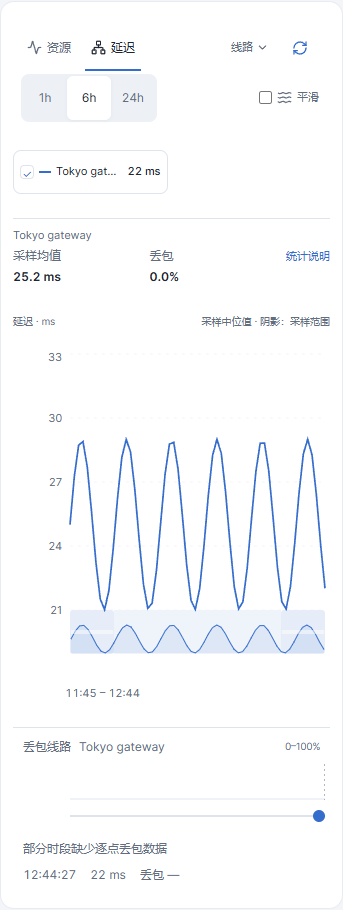
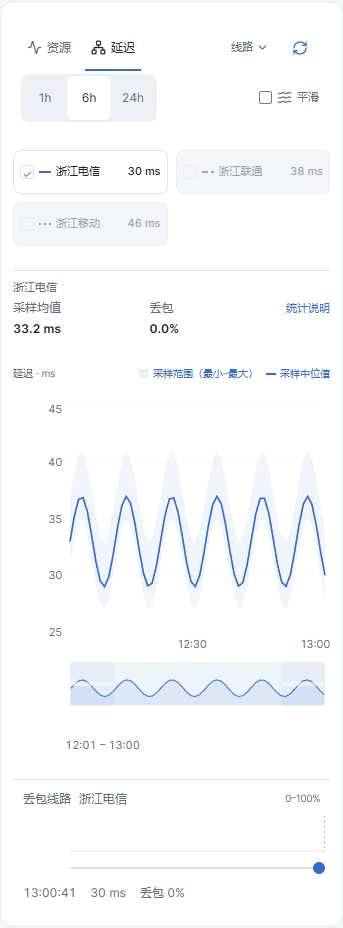
fix: match desktop latency layout to approved proposal

diff --git a/src/components/NodeDetail.tsx b/src/components/NodeDetail.tsx
@@ -297,19 +297,19 @@ export function NodeDetail({ node, probe = "auto", nodes, onSwitch, detailInfoMo
               {(pingSeries.length<=3?pingSeries:[...shownProbes,...pingSeries.filter(s=>!visibleIds.includes(s.id))].slice(0,3)).map(s=>{const latest=s.points.at(-1),shown=visibleIds.includes(s.id);return <button key={s.id} aria-pressed={shown} title={`${s.name} · ${latest?tr("采样：{0}",new Date(latest.ts*1000).toLocaleString(locale())):tr("暂无探测记录")}`} onMouseEnter={()=>setHighlightProbe(s.id)} onMouseLeave={()=>setHighlightProbe(null)} onFocus={()=>setHighlightProbe(s.id)} onBlur={()=>setHighlightProbe(null)} onClick={()=>setSelectedProbes(shown?visibleIds.filter(id=>id!==s.id):[...visibleIds,s.id])}><i className="route-chip-check" aria-hidden="true">{shown?'✓':''}</i><svg width="20" height="8" aria-hidden="true"><line x1="0" y1="4" x2="20" y2="4" stroke={style(s.id).stroke} strokeDasharray={style(s.id).dash} strokeWidth="2"/></svg><span>{s.name}</span><b>{!latest?'—':latest.latency===null?tr("超时"):`${Math.round(latest.latency)} ms`}</b></button>})}
               {pingSeries.length>3&&<button onClick={()=>{if(legend.current){legend.current.open=true;legend.current.querySelector('button')?.focus()}}}>{tr("已选 {0} / {1} 条线路",shownProbes.length,pingSeries.length)}</button>}
             </div>
-            {summaryRoute&&<div className="latency-summary">
+            {summaryRoute&&<div className="latency-summary" title={summaryRoute.name}>
               <span className="latency-summary-route" title={summaryRoute.name}>{summaryRoute.name}</span>
               <span>{tr("采样均值")} <b>{reading(average)}</b></span>
               <span className="latency-p95">P95 <b>{reading(percentile)}</b></span>
               <span>{tr("丢包")} <b>{!zoomed&&summaryRoute.points.length>0&&summaryRoute.loss!==null?`${summaryRoute.loss.toFixed(1)}%`:'—'}</b></span>
               <details className="latency-explanation"><summary>{tr("统计说明")}</summary><div><p>{tr("均值和 P95 基于当前范围内各采样桶的中位值，不代表原始探测包统计。")}</p><p>P95: {reading(percentile)}</p><p>{tr("实线表示采样中位值，阴影表示最小至最大延迟；平滑仅影响曲线。")}</p><p>{tr("丢包率来自完整查询窗口；缩放范围缺少样本数，暂不计算。")}</p></div></details>
             </div>}
-            <div className="latency-chart-caption"><span>{tr("延迟")} · ms</span><span>{smooth?tr("平滑显示"):tr("采样中位值")}{shownProbes.length===1?` · ${tr("阴影：采样范围")}`:''}</span></div>
-            <div className="detail-chart-frame text-muted-foreground" ref={tooltipFrame} onClickCapture={tooltipClick} onPointerMove={tooltipMove} onKeyDownCapture={tooltipKey}>
+            <div className="latency-chart-caption"><span>{tr("延迟")} · ms</span><span className="latency-chart-key" style={{color:summaryRoute?style(summaryRoute.id).stroke:undefined}}>{shownProbes.length===1&&<><i className="latency-band-key"/>{tr("采样范围（最小–最大）")}</>}<i className="latency-line-key"/>{smooth?tr("平滑显示"):tr("采样中位值")}</span></div>
+            <div className="detail-chart-frame text-muted-foreground" onDoubleClick={()=>{setZoom(null);tooltipDismiss()}} ref={tooltipFrame} onClickCapture={tooltipClick} onPointerMove={tooltipMove} onKeyDownCapture={tooltipKey}>
               {shownProbes.length === 0 ? (<HistoryState message={(selectedProbes?.length || selectedProbes === null && choice.probe !== "auto") ? tr("无该线路记录") : tr("没有选中任何探测")}/>) : !shownProbes.some(s=>s.points.length) ? <HistoryState message={tr("这段时间没有延迟数据")}/> : (<ResponsiveContainer>
                   <ComposedChart data={pingRows}>
                     <CartesianGrid strokeDasharray="3 5" stroke="var(--border)" vertical={false}/>
-                    <XAxis {...timeAxis(pingRows, Math.min(zoom?.[0] ?? 0, pingRows.length - 1), Math.min(zoom?.[1] ?? pingRows.length - 1, pingRows.length - 1))}/>
+                    <XAxis height={compact?30:68} {...timeAxis(pingRows, Math.min(zoom?.[0] ?? 0, pingRows.length - 1), Math.min(zoom?.[1] ?? pingRows.length - 1, pingRows.length - 1))}/>
                     {/* Not anchored at zero: these lines live in a narrow band
                     far from it, and zero flattens every wobble. */}
                     <YAxis width={52} domain={["auto", "auto"]} {...AXIS}/>
@@ -336,12 +336,13 @@ export function NodeDetail({ node, probe = "auto", nodes, onSwitch, detailInfoMo
                     {shownProbes.map((s) => (<Line key={s.id} dataKey={`${smooth ? "s" : "t"}${s.id}`} name={s.name} stroke={style(s.id).stroke} strokeDasharray={style(s.id).dash} {...SERIES} strokeOpacity={highlightProbe!==null && visibleIds.includes(highlightProbe) && highlightProbe!==s.id ? 0.2 : 1} onMouseEnter={()=>{if(!compact)setHighlightProbe(s.id)}} onMouseLeave={()=>{if(!compact)setHighlightProbe(null)}} connectNulls={false}/>))}
                     {/* Drag either handle to zoom into a stretch of the trend. */}
                     <Brush dataKey="ts" height={44} travellerWidth={compact?44:12} startIndex={zoom?.[0]??0} endIndex={zoom?.[1]??pingRows.length-1} tickFormatter={clockFor(hours)} fill="var(--card)" className="latency-brush" stroke="var(--border)" onChange={(r) => {tooltipDismiss();setZoom([r.startIndex ?? 0, r.endIndex ?? pingRows.length - 1])}}>
-                      <AreaChart data={pingRows}><XAxis dataKey="ts" type="number" domain={['dataMin','dataMax']} hide/><Area dataKey={`t${summaryRoute?.id}`} stroke="var(--tone)" fill="var(--tone)" fillOpacity={.1} strokeWidth={1} isAnimationActive={false} connectNulls={false}/></AreaChart>
+                      <AreaChart data={pingRows}><XAxis xAxisId="preview" dataKey="ts" type="number" domain={['dataMin','dataMax']} hide/><Area xAxisId="preview" dataKey={`t${summaryRoute?.id}`} stroke="var(--tone)" fill="var(--tone)" fillOpacity={.1} strokeWidth={1} isAnimationActive={false} connectNulls={false}/></AreaChart>
                     </Brush>
                   </ComposedChart>
                 </ResponsiveContainer>)}
+              {!compact&&pingRows.length>0&&<div className="latency-range-heading"><span>{tr("时间范围")} <b>{clockFor(hours)(rangeStart)} — {clockFor(hours)(rangeEnd)}</b></span><span>{zoomed&&<button onClick={()=>{setZoom(null);tooltipDismiss()}}>{tr("恢复完整范围")}</button>}{tr("拖动两端缩放 · 双击恢复全范围")}</span></div>}
             </div>
-            {pingRows.length>0&&<div className="latency-range-caption"><span>{clockFor(hours)(rangeStart)} – {clockFor(hours)(rangeEnd)}</span>{zoomed&&<button onClick={()=>{setZoom(null);tooltipDismiss()}}>{tr("恢复完整范围")}</button>}</div>}
+            {compact&&pingRows.length>0&&<div className="latency-range-caption"><span>{clockFor(hours)(rangeStart)} – {clockFor(hours)(rangeEnd)}</span>{zoomed&&<button onClick={()=>{setZoom(null);tooltipDismiss()}}>{tr("恢复完整范围")}</button>}</div>}
             {shownProbes.length>0&&pingRows.length>0&&<LossTrack selected={summaryRoute?.id} onSelect={setSummaryProbe} key={`${node.id}:${hours}`} series={shownProbes} preferred={defaultProbe} start={pingRows[Math.min(zoom?.[0]??0,pingRows.length-1)].ts} end={pingRows[Math.min(zoom?.[1]??pingRows.length-1,pingRows.length-1)].ts}/>}
           </div>)) : (data.metrics ?? []).length === 0 ? (<HistoryState message={tr("这段时间没有历史数据")}/>) : (<ResourceHistory compact={compact} rows={metricRows} node={node} hours={hours} metric={resourceMetric}/>)}
       </div></section>

diff --git a/src/styles/latency-detail.css b/src/styles/latency-detail.css
@@ -49,3 +49,65 @@
  .latency-summary b {margin:0;white-space:nowrap}
  .latency-view .latency-brush .recharts-brush-traveller rect {fill:var(--tone);fill-opacity:.12}
 }
+/* Desktop follows the proposal: routes and statistics share one heading row. */
+@media(min-width:900px){
+ .latency-view {grid-template-columns:minmax(0,1fr) auto;gap:8px 24px;align-items:center}
+ .latency-view>.route-chips {grid-column:1;grid-row:1;align-self:center;min-width:0;padding:0;gap:8px}
+ .latency-view>.latency-summary {grid-column:2;grid-row:1;display:grid;grid-template-columns:repeat(3,max-content) auto;gap:4px 18px;align-items:center;padding:0;border:0;justify-content:end}
+ .latency-summary-route {grid-column:1/4;max-width:240px;font-size:10px}
+ .latency-summary>span:nth-child(2),.latency-summary>span:nth-child(3),.latency-summary>span:nth-child(4) {grid-row:2;white-space:nowrap;font-size:11px}
+ .latency-summary b {font-size:17px;font-weight:500}
+ .latency-explanation {grid-column:4;grid-row:1/3;font-size:11px}
+ .latency-view>.latency-chart-caption,.latency-view>.detail-chart-frame,.latency-view>.latency-range-caption,.latency-view>.loss-track {grid-column:1/-1}
+ .latency-view>.latency-chart-caption {margin-top:8px;padding:0;min-height:24px}
+ .latency-view>.detail-chart-frame {height:340px;min-height:340px}
+ .latency-view .route-chips button {min-width:0;max-width:100%;padding:6px 9px;font-size:12px;min-height:40px}
+ .latency-view .route-chips button>span {max-width:10em;overflow:hidden;text-overflow:ellipsis;white-space:nowrap}
+ .latency-view .route-chips button>b,.latency-view .route-chips button>svg {flex-shrink:0;white-space:nowrap}
+ .latency-view .route-chips button[aria-pressed=true] {background:var(--tone-soft);border-color:color-mix(in srgb,var(--tone) 30%,var(--border))}
+ .latency-view>.latency-range-caption {min-height:32px;padding-block:0}
+ .latency-view>.latency-range-caption button {min-height:32px}
+ .latency-view .loss-track {padding-top:10px}
+}
+@media(min-width:900px) and (max-width:1199px){
+ .latency-view {column-gap:16px}
+ .latency-view>.latency-summary {column-gap:12px}
+ .latency-summary b {font-size:15px}
+ .latency-view .route-chips button>span {max-width:7em}
+}
+.latency-chart-key {display:flex;align-items:center;gap:7px}
+.latency-band-key {width:18px;height:9px;background:currentColor;opacity:.1;border-radius:2px}
+.latency-line-key {width:18px;border-top:2px solid;margin-left:12px}
+.loss-track-context,.loss-track-desktop-note {display:none}
+@media(min-width:900px){
+ .detail-chart-toolbar[data-history-tab=latency] .detail-tabs {order:0}
+ .detail-chart-toolbar[data-history-tab=latency] .detail-submenu-divider {order:1}
+ .detail-chart-toolbar[data-history-tab=latency] .detail-submenu-divider:nth-of-type(2) {display:none}
+ .detail-chart-toolbar[data-history-tab=latency] .detail-probe-legend {order:2}
+ .detail-chart-toolbar[data-history-tab=latency] .detail-smooth {order:3;margin-left:8px}
+ .detail-chart-toolbar[data-history-tab=latency] .detail-update {order:4}
+ .detail-chart-toolbar[data-history-tab=latency] .detail-ranges {order:5;margin-left:auto}
+ .detail-chart-toolbar[data-history-tab=latency] .detail-refresh {order:6}
+ .detail-chart-toolbar[data-history-tab=latency] .detail-update+.detail-ranges {margin-left:0}
+ .latency-view>.latency-summary {display:flex;flex-wrap:nowrap;gap:24px}
+ .latency-summary-route {display:none}
+ .latency-explanation summary {font-size:0;min-width:24px;justify-content:center}
+ .latency-explanation summary::after {content:'ⓘ';font-size:15px}
+ .latency-view .route-chips button[aria-pressed=false] {opacity:1;background:var(--card);color:var(--muted-foreground)}
+ .latency-view>.detail-chart-frame {position:relative;height:378px;min-height:378px}
+ .latency-range-heading {position:absolute;bottom:51px;left:0;right:0;display:flex;justify-content:space-between;align-items:center;font-size:11px;color:var(--muted-foreground);min-height:28px}
+ .latency-range-heading b {margin-left:12px;font-weight:500;color:var(--foreground)}
+ .latency-range-heading button {min-height:28px;margin-right:12px;color:var(--tone)}
+ .latency-view .loss-track {position:relative;margin-top:8px;padding-top:12px;padding-bottom:8px}
+ .loss-track-desktop-note {display:inline}
+ .loss-track-context {display:flex;justify-content:space-between;gap:16px;font-size:11px;color:var(--muted-foreground);margin-top:4px}
+ .loss-track-scrubber {position:absolute;left:10px;top:51px;opacity:0;width:calc(100% - 62px);height:36px}
+ .loss-track-scrubber:focus-visible {opacity:1;outline:2px solid var(--tone);outline-offset:2px}
+ .loss-track-reading {font-size:10px;min-height:16px}
+}
+@media(min-width:900px) and (max-width:1199px){
+ .latency-view>.latency-summary {gap:12px}
+ .detail-chart-toolbar[data-history-tab=latency] .detail-ranges {margin-left:auto}
+ .loss-track-desktop-note {display:none}
+}
+@media(max-width:899px){.latency-chart-key {gap:4px}.latency-line-key {margin-left:4px;width:10px}.latency-band-key {width:10px}}

diff --git a/src/components/LossTrack.tsx b/src/components/LossTrack.tsx
@@ -10,7 +10,7 @@ export function LossTrack({series,preferred,start,end,selected,onSelect}:{series
  const x=(ts:number)=>(ts*1000-start)/Math.max(1,end-start)*1000
  const inspect=(event:React.PointerEvent<SVGSVGElement>)=>{if(!points.length)return;const box=event.currentTarget.getBoundingClientRect(),time=start+(event.clientX-box.left)/box.width*(end-start);let nearest=0;points.forEach((p,i)=>{if(Math.abs(p.ts*1000-time)<Math.abs(points[nearest].ts*1000-time))nearest=i});setSample(nearest)}
  return <section className="loss-track" aria-label={tr('丢包时间轨道')}>
-  <div className="loss-track-heading"><label>{tr('丢包线路')}{series.length>1?<select aria-label={tr('丢包线路')} value={route?.id??''} onChange={e=>{setSelected(Number(e.target.value));onSelect?.(Number(e.target.value));setSample(null)}}>{series.map(s=><option key={s.id} value={s.id}>{s.name}</option>)}</select>:<span>{route?.name??'—'}</span>}</label><small>0–100%</small></div>
+  <div className="loss-track-heading"><label>{tr('丢包线路')}{series.length>1?<select aria-label={tr('丢包线路')} value={route?.id??''} onChange={e=>{setSelected(Number(e.target.value));onSelect?.(Number(e.target.value));setSample(null)}}>{series.map(s=><option key={s.id} value={s.id}>{s.name}</option>)}</select>:<span>{route?.name??'—'}</span>}</label><small><span className="loss-track-desktop-note">{tr("与主图时间轴同步 · 未知留空，超时单独标记")} · </span>0–100%</small></div>
   <div className="loss-track-plot"><svg viewBox="0 0 1000 36" preserveAspectRatio="none" role="img" aria-label={tr('丢包时间轨道')} onPointerMove={inspect} onPointerDown={inspect}>
    <line x1="0" x2="1000" y1="35" y2="35" stroke="var(--border)"/>
    {points.map(p=>{const loss=bucketLoss(p.loss);return <g key={p.ts}>{loss!==null&&loss>0&&<rect x={Math.max(0,Math.min(996,x(p.ts)-2))} y={35-loss*.3} width="4" height={Math.max(1,loss*.3)} fill="var(--warn)"/>}{p.latency===null&&<path d={`M${Math.min(996,Math.max(4,x(p.ts)))-3},4 l6,6 m0,-6 l-6,6`} stroke="var(--destructive)" vectorEffect="non-scaling-stroke"/>}<title>{new Date(p.ts*1000).toLocaleString(locale())} · {p.latency===null?tr('超时'):`${p.latency} ms`} · {tr('丢包')} {loss===null?'—':`${loss}%`}</title></g>})}
@@ -19,5 +19,6 @@ export function LossTrack({series,preferred,start,end,selected,onSelect}:{series
   {points.length>0&&<input className="loss-track-scrubber" type="range" aria-label={tr('查看丢包采样')} min="0" max={Math.max(0,points.length-1)} value={Math.min(sample??points.length-1,points.length-1)} onChange={e=>setSample(Number(e.target.value))}/>}
   {points.some(p=>bucketLoss(p.loss)===null)&&<p className="loss-track-note">{tr("部分时段缺少逐点丢包数据")}</p>}
   <div className="loss-track-reading" aria-live="polite">{active?<><time>{new Date(active.ts*1000).toLocaleTimeString(locale())}</time><span>{active.latency===null?tr('超时'):`${Number(active.latency.toFixed(1))} ms`}</span><span>{tr('丢包')} {bucketLoss(active.loss)===null?'—':`${active.loss}%`}</span></>:tr('暂无探测记录')}</div>
+  <div className="loss-track-context"><span>{tr("当前线路：{0}",route?.name??'—')} · {tr("统计范围：{0}–{1}",new Date(start).toLocaleTimeString(locale(),{hour:'2-digit',minute:'2-digit'}),new Date(end).toLocaleTimeString(locale(),{hour:'2-digit',minute:'2-digit'}))}</span><span>{tr("主图、摘要与丢包轨道使用同一时间范围")}</span></div>
  </section>
 }

diff --git a/tests/latency-desktop.spec.ts b/tests/latency-desktop.spec.ts
@@ -1,0 +1,21 @@
+import {test,expect} from '@playwright/test'
+import {nodes,metrics} from '../scripts/fixtures.mjs'
+for(const width of [900,1024,1440])test(`desktop latency proposal keeps routes left and statistics right at ${width}`,async({page})=>{
+ await page.setViewportSize({width,height:1000})
+ await page.route('**/api/nodes',r=>r.fulfill({json:{nodes:[nodes()[0]]}}))
+ await page.route('**/api/nodes/*/metrics?*',r=>r.fulfill({json:{...metrics(),probes:{1:'浙江电信 Primary long route',2:'浙江联通 Backup long route',3:'浙江移动 Mobile route'}}}))
+ for(const language of ['zh','en']){
+  await page.addInitScript(language=>localStorage.setItem('monitor-next-language',language),language)
+  await page.goto('/node/1?routes=1#latency')
+  const chips=page.locator('.latency-view>.route-chips'),summary=page.locator('.latency-summary'),chart=page.locator('.latency-view>.detail-chart-frame')
+  await expect(summary).toBeVisible()
+  const c=(await chips.boundingBox())!,s=(await summary.boundingBox())!,f=(await chart.boundingBox())!
+  expect(c.x+c.width).toBeLessThanOrEqual(s.x)
+  expect(Math.abs(c.y+c.height/2-s.y-s.height/2)).toBeLessThanOrEqual(1)
+  expect(f.height).toBe(378)
+  expect(await page.locator('.detail-history').evaluate(el=>el.scrollWidth<=el.clientWidth)).toBeTruthy()
+  await expect.poll(()=>page.locator('.detail-chart-frame .recharts-xAxis-tick-labels .recharts-cartesian-axis-tick-value').count()).toBeGreaterThan(1)
+  const range=(await page.locator('.latency-range-heading').boundingBox())!,brush=(await page.locator('.latency-brush').boundingBox())!;expect(range.y+range.height).toBeLessThanOrEqual(brush.y)
+  await page.locator('.latency-explanation summary').click();await expect(page.locator('.latency-explanation>div')).toBeVisible()
+ }
+})

diff --git a/src/lib/en.ts b/src/lib/en.ts
@@ -1,4 +1,11 @@
 export const english: Record<string, string> = {
+"采样范围（最小–最大）":"Sample range (min\u2013max)",
+"拖动两端缩放 · 双击恢复全范围":"Drag handles to zoom \u00b7 Double-click to reset",
+"与主图时间轴同步 · 未知留空，超时单独标记":"Same time axis \u00b7 Unknown left blank, timeouts marked separately",
+"当前线路：{0}":"Current route: {0}",
+"统计范围：{0}–{1}":"Range: {0}\u2013{1}",
+"主图、摘要与丢包轨道使用同一时间范围":"Chart, statistics and loss track share the same time range",
+
 "采样均值":"Sample mean",
 "统计说明":"About statistics",
 "均值和 P95 基于当前范围内各采样桶的中位值，不代表原始探测包统计。":"Mean and P95 use bucket medians in the visible range, not individual probe packets.",

diff --git a/ACCEPTANCE.md b/ACCEPTANCE.md
@@ -4,6 +4,8 @@
 
 ## 最近验证
 
+2026-09-23：v0.1.22 桌面排版修订按用户确认效果图完成：左线路／右统计同排、主线与阴影图例、缩略图上方的范围及双击复位提示、底部丢包线路与统计范围说明。主图和缩略图采用独立坐标轴，恢复主图时间刻度。最终构建 Chrome 全量 195/195 通过，含新增 900/1024/1440px 中英文桌面几何及刻度检查；生产构建、lint、业务测试、526 处字面量翻译检查和安装包校验通过。新增测试初稿误用了旧版 Recharts DOM 选择器，改为当前坐标轴标签选择器并等待渲染后通过；未为此修改运行时代码。README 截图由最终构建和演示数据重新生成。同版本重新发布，需重新下载安装包。
+
 2026-09-23：v0.1.22 完成首页延迟指标宽度与垂直对齐、详情页采样摘要、真实缩略图、缩放恢复及手机双行工具栏。生产构建、lint、业务测试和 519 处字面量翻译检查通过。Chrome 最终构建全量 192/192 通过（4 workers），覆盖中英文、明暗主题、响应式、触屏提示、线路选择及缩放统计。首轮 191/192，1 项在页面加载时未找到卡片；期间重新构建可能影响了静态资源读取。固定最终构建后完整重跑通过，未修改测试断言或运行时代码来消除该失败。安装包根目录、版本元数据及 SHA-256 已校验；实际截图见 screenshots/v0.1.22。
 
 2026-09-23：v0.1.21 完成首页紧凑网络区和详情页横向概览升级；生产构建、静态检查、业务单元测试及 507 处字面量翻译检查通过。响应式覆盖 320/390/768/1024/1440px、中英文及明暗主题；验证真实采样、离线清空、零值、备注展开、价格右对齐和全宽图表。Chrome 全量 191 项首次 182 项通过，9 项因旧布局断言失败（旧账期分组位置、卡片资料归属、手机首屏图表位置）；同步断言到确认的新方案后，失败项定向复测 9/9 通过。本次没有因这些断言修改运行时代码。

diff --git a/CHANGELOG.md b/CHANGELOG.md
@@ -2,6 +2,8 @@
 
 ## 0.1.22
 
+- 桌面排版修订：补齐效果图中的左侧线路／右侧统计同排，收紧纵向留白；修复缩略图坐标轴影响主图时间刻度，更新截图并重新发布同版本安装包。
+
 - 首页手机延迟柱条按剩余宽度展示，PC 与手机端指标和数值垂直居中。
 - 详情页线路图例改为勾选开关，新增采样均值、P95、丢包摘要与统计口径说明。
 - 时间选择器加入真实趋势缩略图、44px 手机手柄与恢复完整范围操作，摘要及丢包轨道同步缩放。
